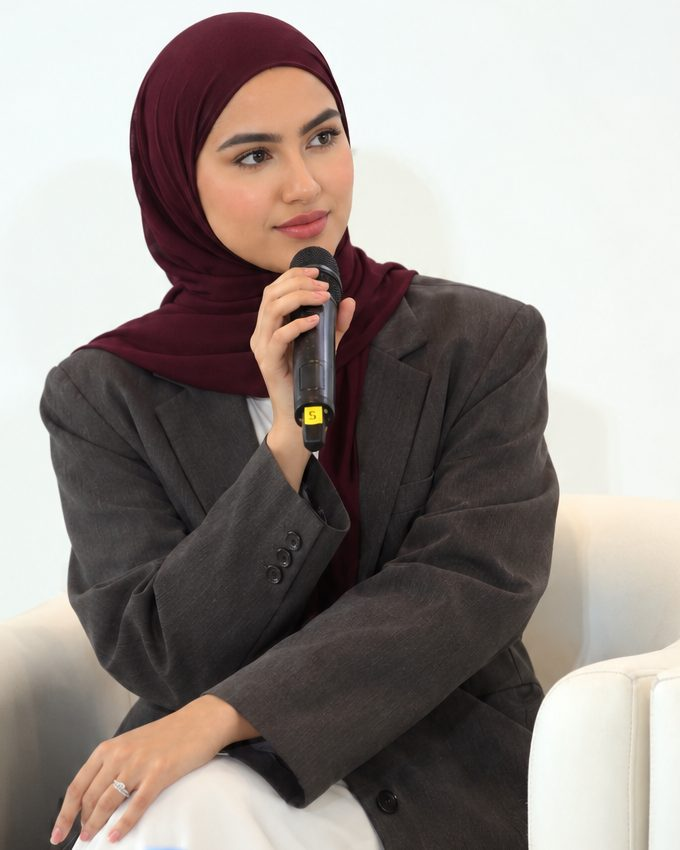
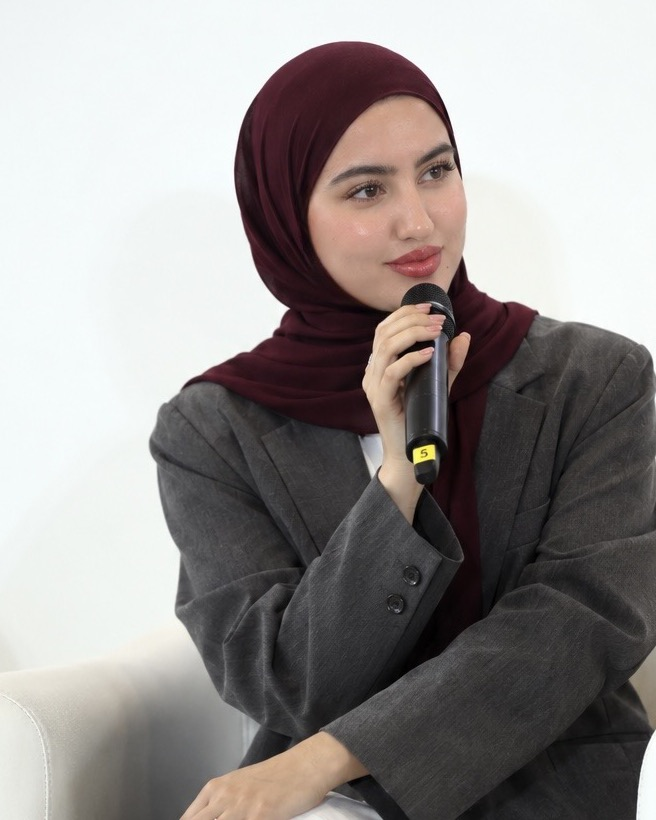
Nouvelle photo de Majda, quiz lisible sur fond sombre

diff --git a/quiz.html b/quiz.html
@@ -69,13 +69,13 @@
   z-index: 2;
   width: 100%;
   max-width: 700px;
-  background: rgba(236, 228, 213, 0.6);
+  background: rgba(44, 15, 36, 0.78);
   backdrop-filter: blur(24px);
   -webkit-backdrop-filter: blur(24px);
   border: 1px solid rgba(169, 182, 132, 0.22);
   border-radius: 28px;
   padding: 56px 56px 48px;
-  box-shadow: 0 12px 64px -20px rgba(232, 222, 203, 0.14), 0 2px 8px rgba(232, 222, 203, 0.04);
+  box-shadow: 0 12px 64px -20px rgba(0, 0, 0, 0.5), 0 2px 8px rgba(0, 0, 0, 0.2);
 }
 
 /* ── PROGRESS ────────────────────────────────────────────── */
@@ -303,7 +303,7 @@
   padding: 14px 18px;
   border: 1px solid rgba(232, 222, 203, 0.18);
   border-radius: 12px;
-  background: rgba(236, 228, 213, 0.75);
+  background: rgba(232, 222, 203, 0.08);
   font-family: 'Jost', sans-serif;
   font-size: 15px;
   color: var(--ink);
@@ -313,7 +313,7 @@
 
 .form-field input:focus {
   border-color: var(--burgundy);
-  background: rgba(236, 228, 213, 0.95);
+  background: rgba(232, 222, 203, 0.14);
 }
 
 .form-field input::placeholder { color: var(--ink-soft); opacity: 0.55; }

diff --git a/index.html b/index.html
@@ -735,7 +735,7 @@
   <div class="pc-wrap pc-origin">
     <div><span class="pc-label">Origine</span><figure class="pc-portrait">
         <span class="pc-big" aria-hidden="true">M</span>
-        <span class="pc-ph"><img src="photos/majda.jpg" alt="Majda, fondatrice de Psycœurlogie, lors d'une conférence" loading="lazy" width="680" height="850"></span>
+        <span class="pc-ph"><img src="photos/majda.jpg" alt="Majda, fondatrice de Psycœurlogie, lors d'une conférence" loading="lazy" width="656" height="820"></span>
         <figcaption>Majda · Fondatrice</figcaption>
       </figure></div>
     <div class="pc-origin-body">

diff --git a/manifesto.html b/manifesto.html
@@ -341,7 +341,7 @@
   <div class="pc-wrap pc-origin">
     <div><span class="pc-label">Origine</span><figure class="pc-portrait">
         <span class="pc-big" aria-hidden="true">M</span>
-        <span class="pc-ph"><img src="photos/majda.jpg" alt="Majda, fondatrice de Psycœurlogie, lors d'une conférence" loading="lazy" width="680" height="850"></span>
+        <span class="pc-ph"><img src="photos/majda.jpg" alt="Majda, fondatrice de Psycœurlogie, lors d'une conférence" loading="lazy" width="656" height="820"></span>
         <figcaption>Majda · Fondatrice</figcaption>
       </figure></div>
     <div class="pc-origin-body">

diff --git a/tasks/lessons.md b/tasks/lessons.md
@@ -45,3 +45,5 @@ Format : [date] | ce qui s'est mal passé | règle à suivre la prochaine fois
 [2026-10-05] | Header jugé « pas clair du tout » par Gent : 7 liens au même niveau, « L'ebook » / « Le livre » qui ne disent rien, bouton « Commencer » qui pousse à l'achat, header différent sur chaque page | Le header nomme des BESOINS et un ORDRE, jamais des formats. Les deux livres = un parcours en 2 étapes (1 Comprendre = Les racines, 2 Guérir en 21 jours = Reset ton cœur), le pack 39 € = « le parcours complet ». Un seul header commun (`header.css` + `header.js`, classes `rh-`) sur toutes les pages : ne plus recréer de `<nav>` propre à une page.
 
 [2026-10-05] | Header « parcours » publié avec des libellés abstraits (« Comprendre », « Guérir en 21 jours », « Gratuit ») : Gent demande « comprendre quoi ? guérir de quoi ? gratuit quoi ? » | Un libellé de menu doit se comprendre SEUL, par une visiteuse qui ne connaît pas la marque : il nomme l'OBJET (un livre, un programme, des guides) et son SUJET (les blocages), jamais un verbe sans complément. Relire chaque libellé en se demandant « … quoi ? de quoi ? » avant de proposer.
+
+[2026-10-24] | Quiz resté avec des fonds crème translucides (carte, champ e-mail) après la refonte sombre : texte clair sur fond clair, illisible | Après un changement de palette, vérifier chaque étape du quiz (intro, question, e-mail, résultat) en capture ; chercher les `rgba(236, 228, 213` restants.
